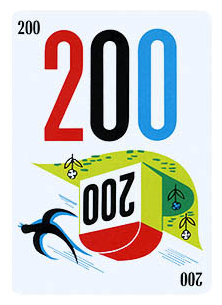
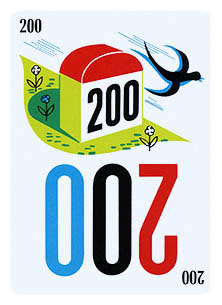
rotate mile cards; set new player button

diff --git a/index.html b/index.html
@@ -14,8 +14,10 @@
 <body ng-controller="MainController as mc" class="container-fluid">
     <!--//start of next play splash screen//-->
     <div class="nextPlayer" ng-show="readyNext">
-        <button ng-click="startTurn()">Click here to resume</button>
-        <h1>Are you Ready to go the distance {{nextPlayer.name}}?</h1>
+        <div class="text-center">
+            <a ng-click="startTurn()"><h1 class="ready" >Are you Ready to go the distance {{nextPlayer.name}}?</h1>
+            <img src="assets/img/ready.png"  alt="hot chick" align="middle"></a>
+        </div>
     </div>
     <!--end splash-->
     <button ng-click="playCard()" ng-if="mc.activeCard && mc.currentTarget">Play {{mc.activeCard.title}} for {{mc.currentTarget.name}}</button>

diff --git a/assets/styles/style.css b/assets/styles/style.css
@@ -46,3 +46,7 @@ z-index: 99999;
 .trash img{
     height:100px;
 }
+.ready{
+    text-align: center;
+    
+}
